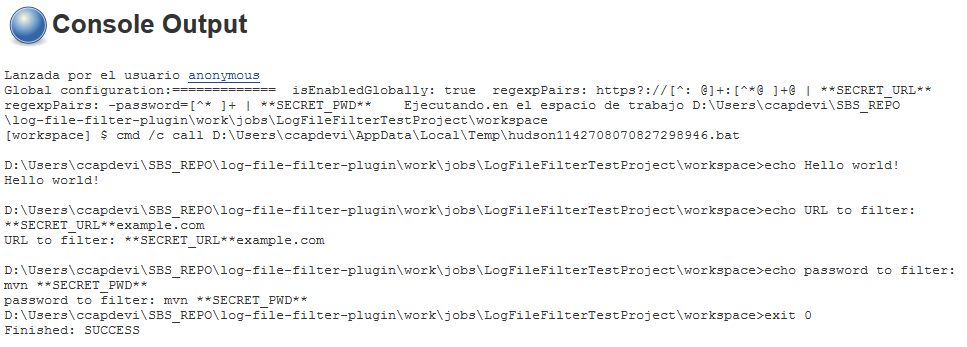
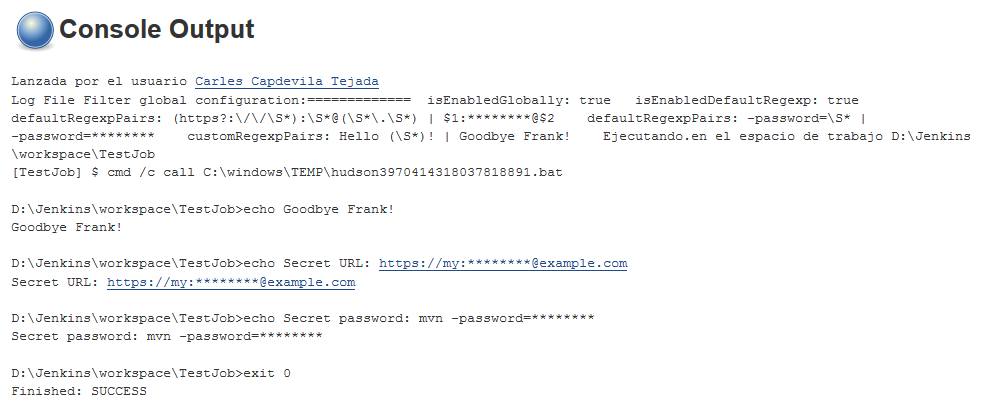
Updated GitHub documentation

diff --git a/README.md b/README.md
@@ -1,16 +1,14 @@
 # JENKINS File Filter Log Plugin
 
-This plugin allows filtering Jenkins' console output by means of user-defined regular expressions.
+This plugin allows filtering Jenkins' console output by means of regular expressions. Some expressions are included by default; to see which are the default expressions go to the Jenkins global settings and click the "Enable default regexp" help icon. They can be turned off by unchecking the "Enable default regexp" checkbox.
 
-# Install
+To define a custom filter, go to the Jenkins global settings and add a new entry in the "Custom regexp pairs" setting. The regexes follow the conventions explained in [the Java "Pattern" class](https://docs.oracle.com/javase/8/docs/api/java/util/regex/Pattern.html#sum).
 
-TODO
+To disable the filtering, just uncheck the "Enable globally" checkbox in the global settings. Note that not even the default regexp will work.
 
 # Configuring the plugin
 
-## Global configuration
-
-Note that the global configuration is applied to all projects by default.
+Note that the filtering is applied to all projects.
 
 ![Global configuration](readmeImages/globalConfig.png "Global configuration")
 
